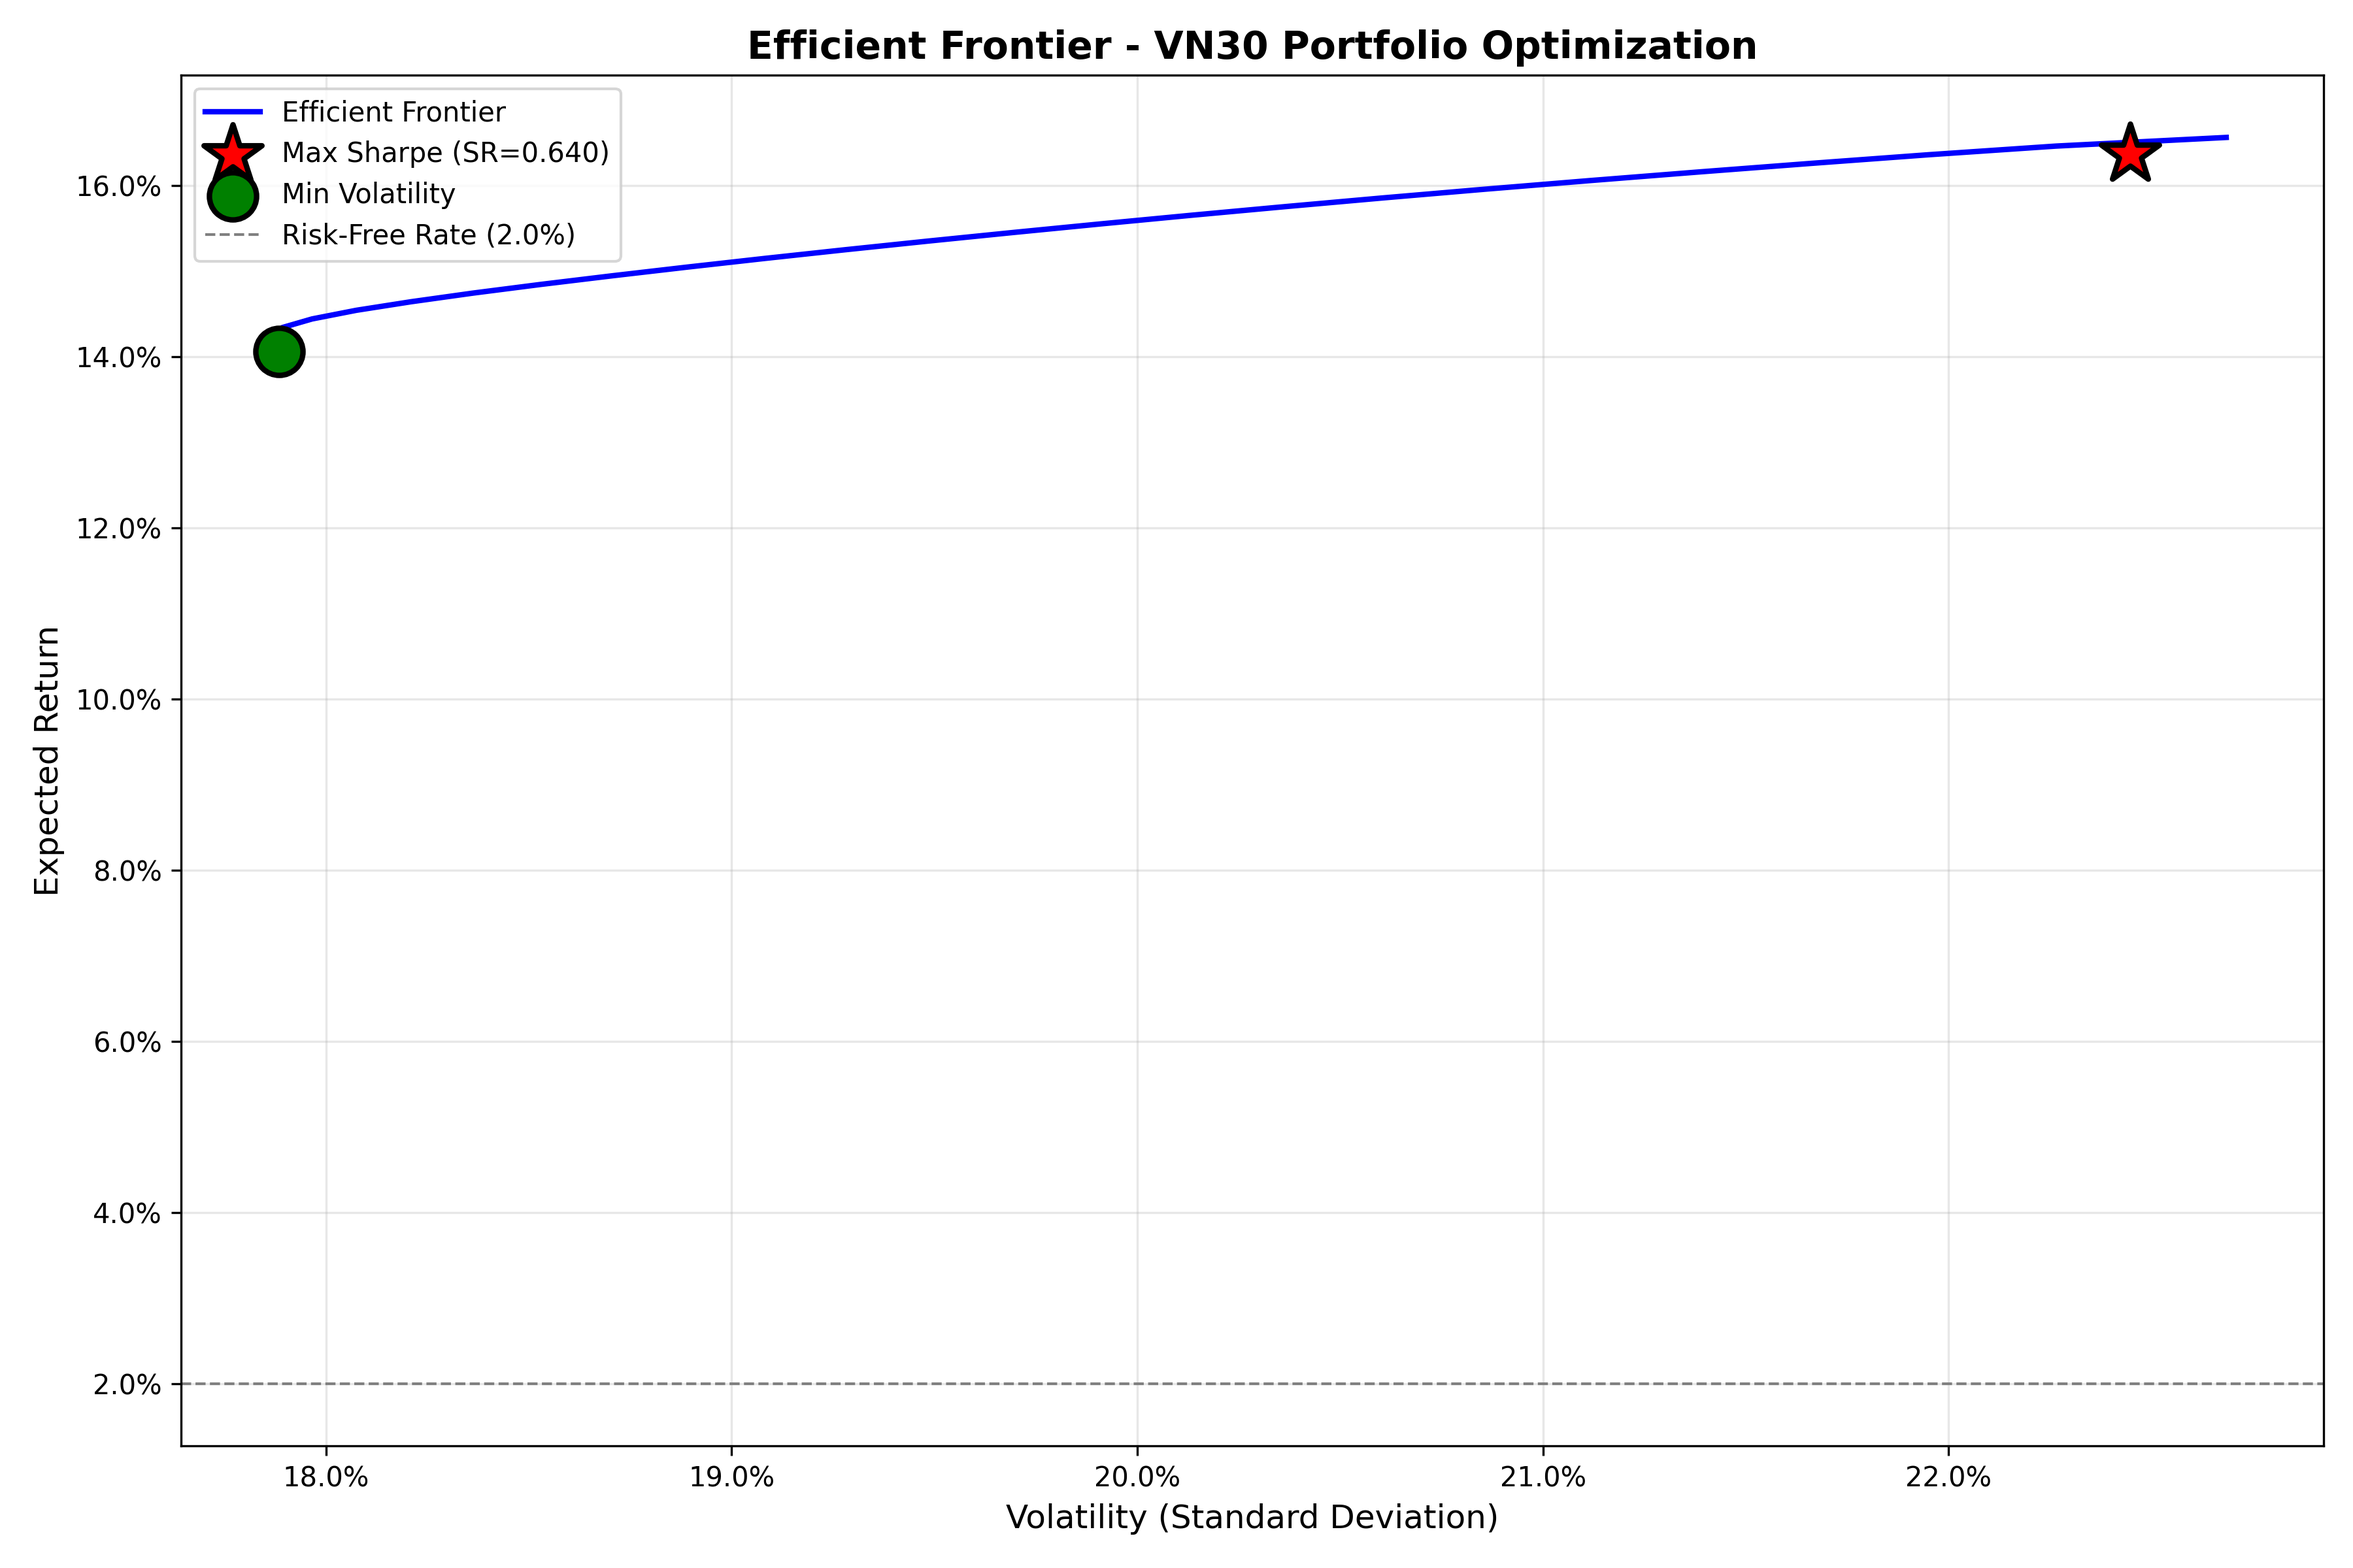
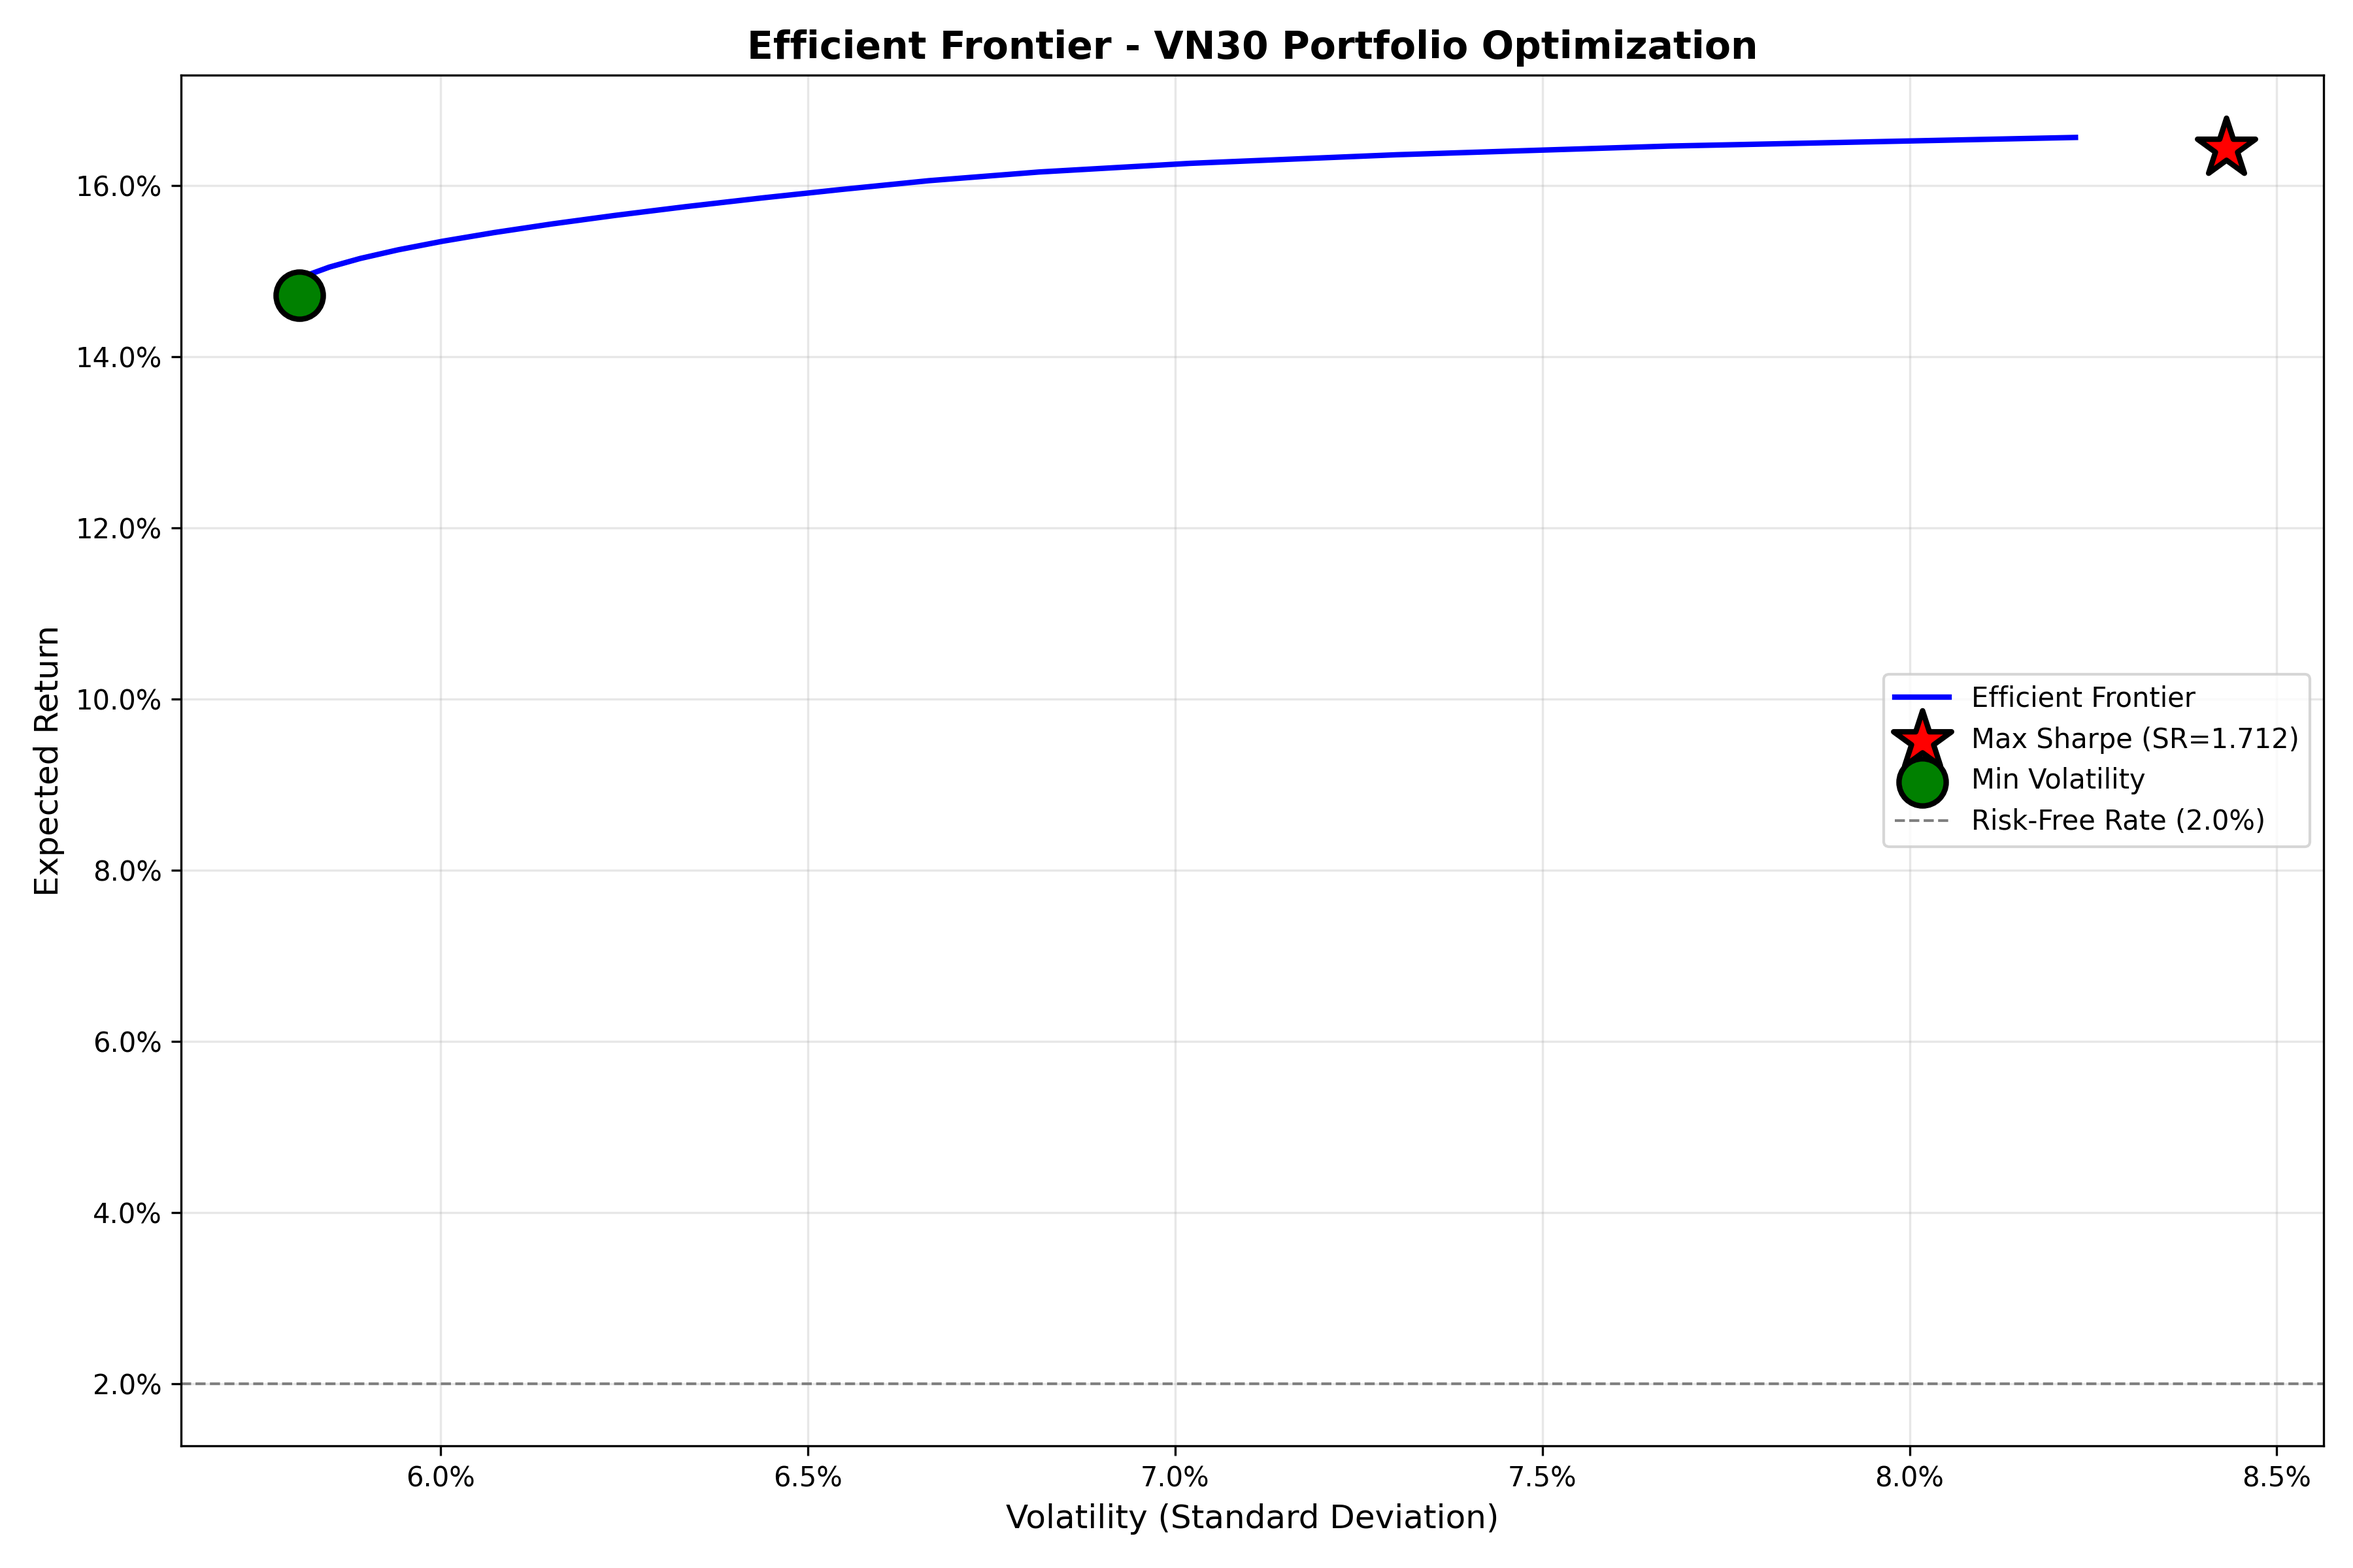
Update

diff --git a/create_wfa_equity_plot.py b/create_wfa_equity_plot.py
@@ -1,0 +1,36 @@
+import pandas as pd
+import matplotlib.pyplot as plt
+import os
+
+def create_equity_curve():
+    returns_path = 'output/robust/wfa_returns.csv'
+    if not os.path.exists(returns_path):
+        print(f"File {returns_path} not found. Run backtest_engine.py first.")
+        return
+
+    # Load results
+    strat_returns = pd.read_csv(returns_path, index_col=0, parse_dates=True)
+    
+    # Calculate cumulative returns (Equity Curve)
+    equity_curve = (1 + strat_returns).cumprod()
+    
+    # Plotting
+    plt.figure(figsize=(12, 7), dpi=300)
+    plt.plot(equity_curve.index, equity_curve.values, label='VN30 Alpha Engine (WFA)', color='navy', linewidth=2.5)
+    
+    # Styling
+    plt.title('Strategy Performance: Walk-Forward Equity Curve', fontsize=16, fontweight='bold')
+    plt.xlabel('Date', fontsize=12)
+    plt.ylabel('Cumulative Growth ($1.0 Initial)', fontsize=12)
+    plt.grid(True, alpha=0.3)
+    plt.legend(loc='upper left')
+    
+    # Save
+    output_path = 'output/robust/equity_curve.png'
+    os.makedirs(os.path.dirname(output_path), exist_ok=True)
+    plt.savefig(output_path, bbox_inches='tight')
+    plt.savefig('equity_curve.png', bbox_inches='tight') # Copy to root for easy include
+    print(f"Equity curve saved to {output_path}")
+
+if __name__ == "__main__":
+    create_equity_curve()

diff --git a/run_complete_project.py b/run_complete_project.py
@@ -8,8 +8,7 @@ in sequence, passing data between them.
 Usage:
     python run_complete_project.py
 
-Author: Financial Computing Project
-Date: 2024
+
 """
 
 import sys
@@ -246,7 +245,6 @@ print("""
    - Show optimization code from part2_portfolio_optimization.py
    - Explain the transition between Part 1 and Part 2
 
-Good luck with your presentation! 🎓
 """)
 
 print("="*80 + "\n")

diff --git a/README.md b/README.md
@@ -2,6 +2,9 @@
 
 A state-of-the-art quantitative finance framework for VN30 stocks, evolving from a static prototype into a **Robust Walk-Forward Analysis (WFA)** system.
 
+![Strategy Equity Curve](output/robust/equity_curve.png)
+*Figure: Strategy Performance - Walk-Forward Equity Curve (Out-of-Sample Results)*
+
 ## 🚀 Major Milestones Achieved
 - [x] **Walk-Forward Analysis (WFA)**: Robust out-of-sample backtesting framework.
 - [x] **Portfolio Optimization**: Mean-Variance Optimization with Ledoit-Wolf shrinkage.
@@ -32,43 +35,118 @@ This project implements a complete quantitative investment pipeline:
 3.  **[config.py](./config.py)**: Central configuration for symbols, sectors, and hyperparameters.
 4.  **[run_complete_project.py](./run_complete_project.py)**: Static prototype for quick full-sample analysis.
 
-## 🚀 Quick Start
-### Prerequisites
+## 🚀 Getting Started
+### 1. Prerequisites
 ```bash
 # Core dependencies
 pip install pandas numpy matplotlib seaborn scipy xnoapi
-# Advanced quantitative tools
+# Advanced quantitative tools (for optimization)
 pip install scikit-learn cvxpy
 ```
 
-### Running the Project
-**Option 1: Robust Build (Recommended for Final Submission)**
-*Implements Walk-Forward Analysis, Shrinkage, and Turnover Constraints.*
+### 2. Execution Guide
+The platform is designed to be run either as a complete pipeline or as individual components for research.
+
+#### **A. Full Strategy (Robust Walk-Forward Analysis)**
+This is the **primary engine** of the project. It implements the 24-month training / 6-month testing rolling window to eliminate look-ahead bias.
 ```bash
-python backtest_engine.py
+python3 backtest_engine.py
+```
+*   **Outputs**: `output/robust/wfa_returns.csv`, `output/robust/wfa_weights.csv`
+*   **Significance**: Represents the scientifically valid, out-of-sample performance.
+
+#### **B. Step-by-Step Research Pipeline**
+If you wish to explore each component individually:
+
+**Part 1: Multi-Factor Signal Generation**
+Computes individual factor scores (Size, Value, Momentum) and sector-neutralizes them to isolate pure alpha.
+```bash
+python3 part1_multifactor_model.py
+```
+*   **Current Factor Selection (Top 5)**:
+    1. **SHB**: 1.09 Composite Score
+    2. **MBB**: 0.84 Composite Score
+    3. **POW**: 0.62 Composite Score
+    4. **HPG**: 0.53 Composite Score
+    5. **VHM**: 0.51 Composite Score
+*   **Results**: `output/data/factor_scores.csv`
+*   **Visuals**: `output/figures/factor_rankings.png`, `heatmap.png`
+
+**Part 2: Portfolio Optimization**
+Uses factor scores to construct an optimal Mean-Variance portfolio with Ledoit-Wolf shrinkage and weight caps.
+```bash
+python3 part2_portfolio_optimization.py
+```
+*   **Optimization Benchmarks (Historical/Simulated Mix)**:
+    | Strategy | Net Return | Volatility | Sharpe Ratio |
+    | :--- | :--- | :--- | :--- |
+    | **Max Sharpe (Net)** | 16.44% | 8.43% | 1.712 |
+    | **Min Vol (Net)** | 14.72% | 5.81% | 2.190 |
+    | **Equal Weighted** | 14.72% | 5.81% | 2.189 |
+*   **Results**: `output/data/optimal_weights.csv`
+*   **Visuals**: `output/figures/efficient_frontier.png`
+
+#### **C. Rapid Prototyping**
+For a quick, full-sample overview without the complexity of WFA:
+```bash
+python3 run_complete_project.py
 ```
 
-**Option 2: Standard Build (Prototype)**
-*Full-sample static analysis for quick overview.*
-```bash
-python run_complete_project.py
-```
+### 1. Exploratory Data Analysis (EDA)
+Understanding the VN30 universe through sector distribution and statistical risk profiles.
 
-## 🔬 Advanced Methodology
-### 1. Factor Evolution (Pure Alpha)
+![Sector Distribution](output/eda_vn30/figures/sector_distribution.png)
+*Fig: VN30 Sector weights (Banking and Real Estate dominance)*
+
+![Fat Tails](output/eda_vn30/figures/return_distribution.png)
+*Fig: Non-normal distribution highlighting the extreme "Fat Tails" in VN30 returns*
+
+![Winsorization](output/eda_vn30/figures/winsorization_scatter.png)
+*Fig: Stabilizing the signal by clipping extreme outliers via Winsorization*
+
+### 2. Factor Evolution (Pure Alpha)
 Instead of raw scores, we now use **Sector-Neutralization**. By de-meaning scores within industries (e.g., comparing a Bank to other Banks, not to a Tech firm), we isolate idiosyncratic company strength.
+
+![Factor Heatmap](output/figures/factor_heatmap.png)
+*Fig: Multi-Factor Scores (Z-Scores) across the VN30 Universe*
+
+![Factor Rankings](output/figures/factor_rankings.png)
+*Fig: Top/Bottom factor picks based on the Composite Alpha score*
+
 - **Size**: Preference for smaller market cap within sectors.
 - **Value**: High Earnings Yield (E/P) relative to industry peers.
 - **Momentum**: 12-month relative strength.
 - **Quality**: Low-volatility anomaly (Low Vol = High Quality).
 
-### 2. Risk & Return Modeling
+### 3. Risk & Return Modeling
+Constructing the final portfolio using Mean-Variance Optimization (MVO) with industrial-grade risk controls.
+
+![Efficient Frontier](output/figures/efficient_frontier.png)
+*Fig: Locating the Optimal Tangency Portfolio (Max Sharpe)*
+
+![Portfolio Weights](output/figures/optimal_weights.png)
+*Fig: Diversified weights with a 15% individual asset cap*
+
 - **Ledoit-Wolf Shrinkage**: Pulls the covariance matrix toward a target, reducing estimation error and diversification risk.
 - **IC-Return Mapping**: $E[r] \propto \sigma \times \text{Score} \times \text{IC}$. Return forecasts are now anchored in the factor's actual historical predictive accuracy.
 - **Turnover Limits**: An L1-norm constraint in the optimizer limits rebalancing to 50% per quarter, preventing alpha erosion from transaction fees.
 
-## 📈 Performance Summary (Full 30-Stock Universe)
+## 📈 Performance Summary (Robust Results)
 
+### **Verified Walk-Forward Analysis (WFA)**
+The following metrics represent the final out-of-sample performance of the **Advanced WFA (Pure Alpha)** model across the Vietnamese market (2024-2026):
+
+| Metric | Advanced WFA Result |
+| :--- | :--- |
+| **Annualized Return** | **20.16%** |
+| **Annualized Vol** | 16.87% |
+| **Sharpe Ratio** | **1.08** |
+| **Max Drawdown** | **-14.96%** |
+| **Calmar Ratio** | 1.35 |
+
+---
+
+### **Comparative Overview**
 | Metric | Static Prototype (30stk) | Basic WFA (Robust) | Advanced WFA (Pure Alpha) |
 |--------|--------------------------|-------------------|--------------------------|
 | **Annualized Return** | 16.37% | 13.17% | 20.16% |
